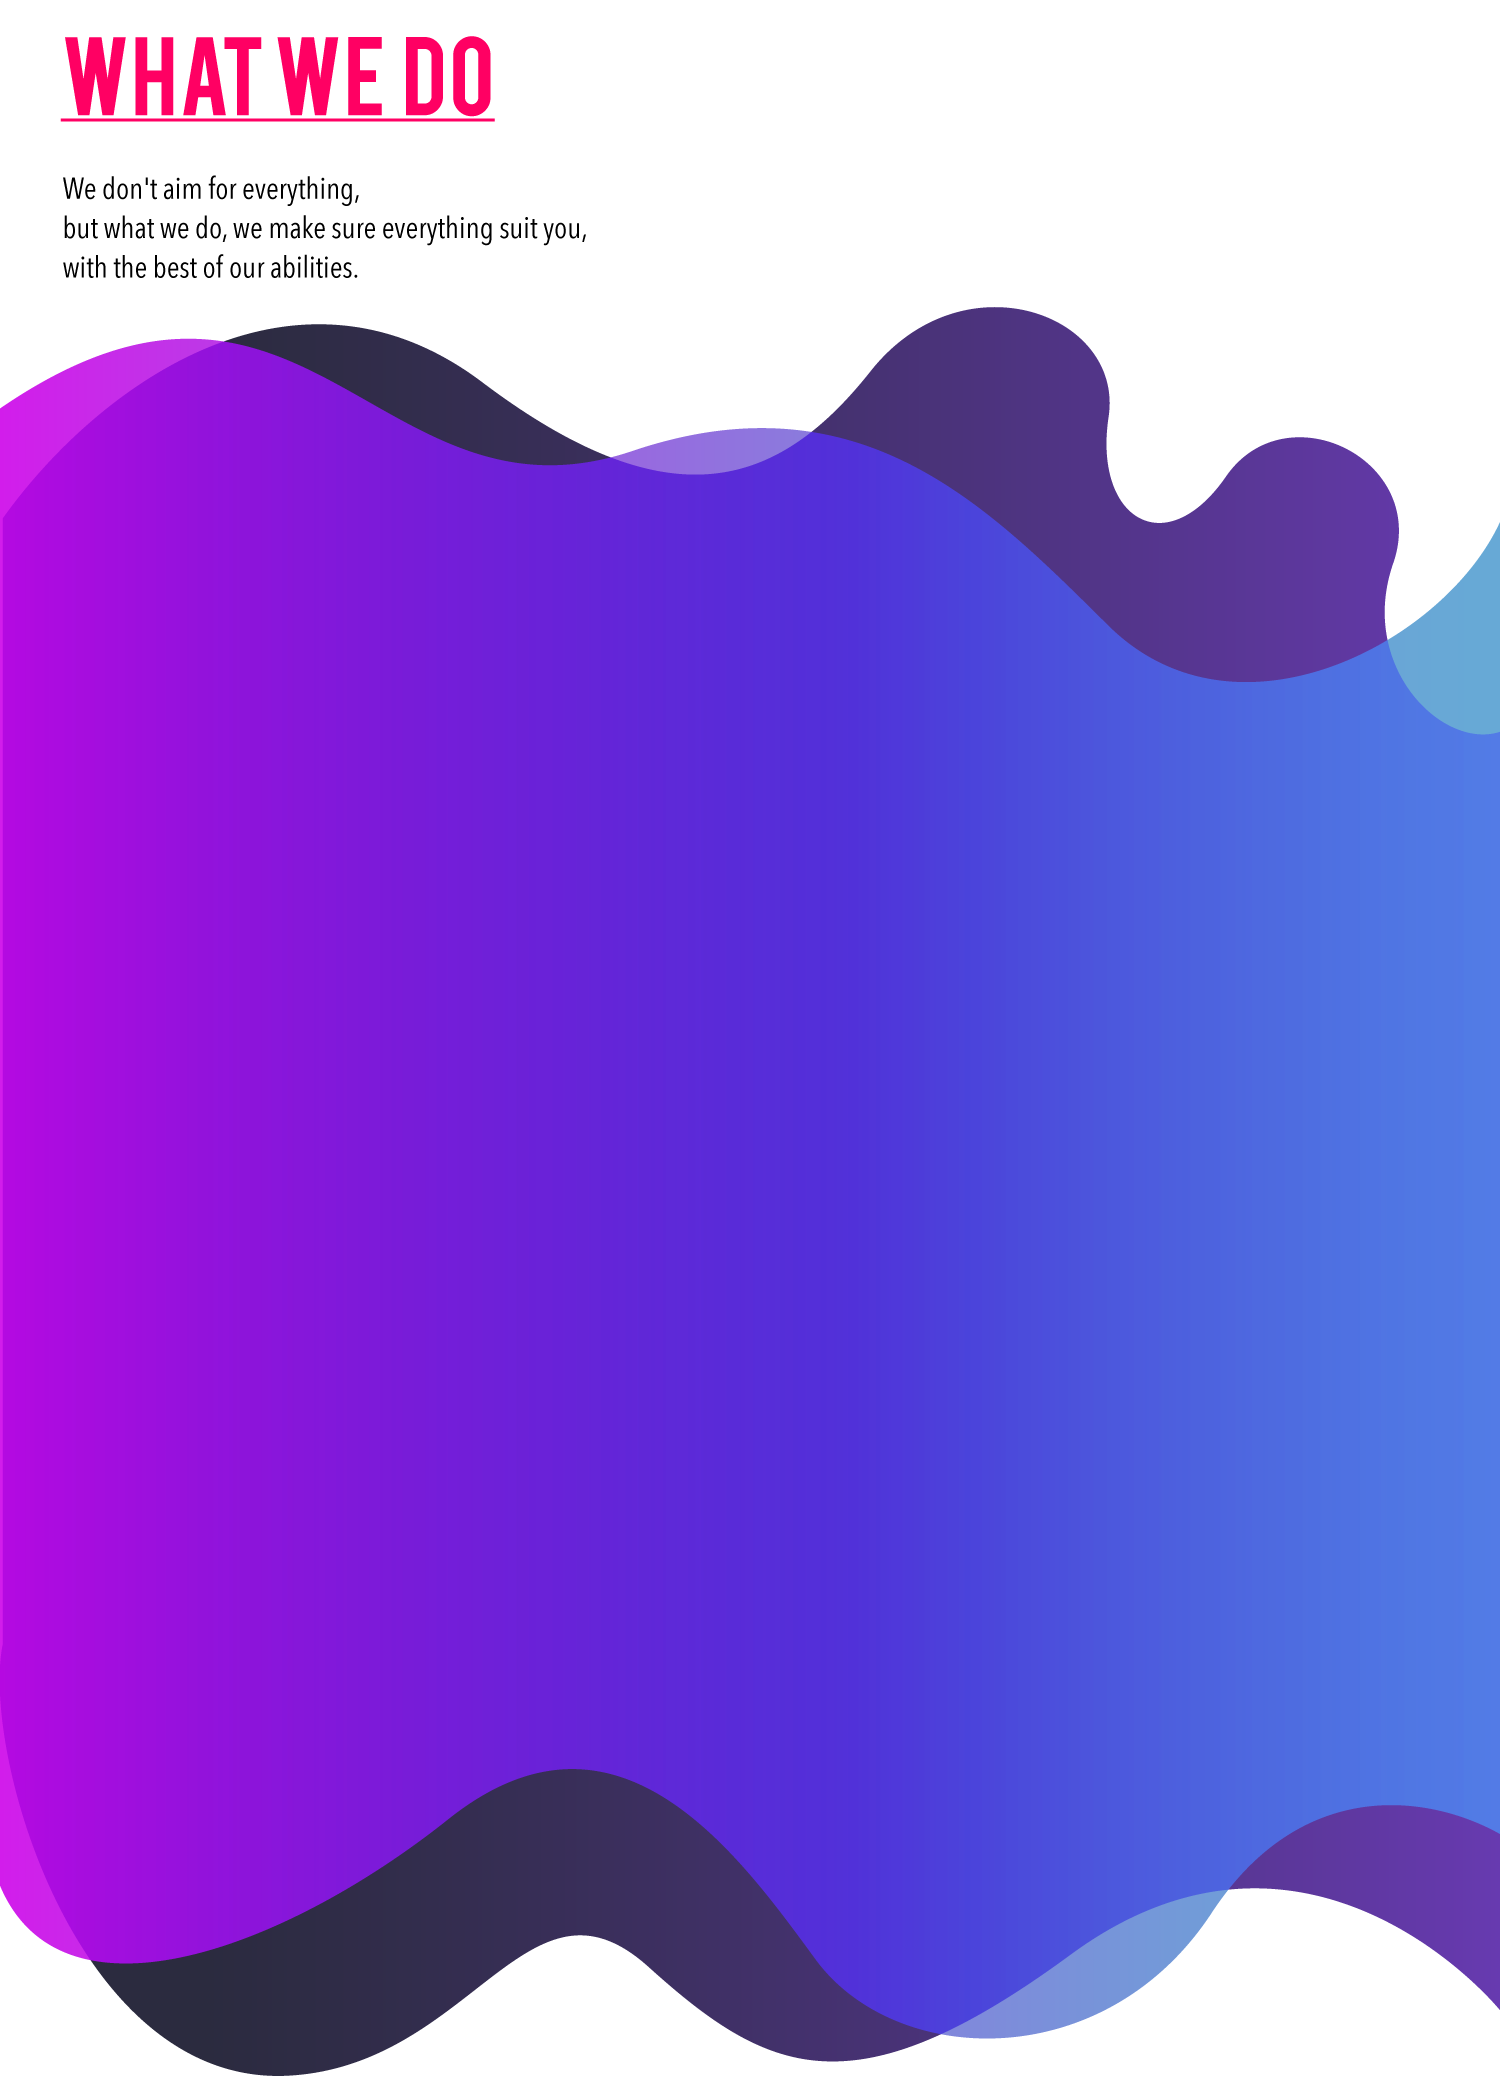
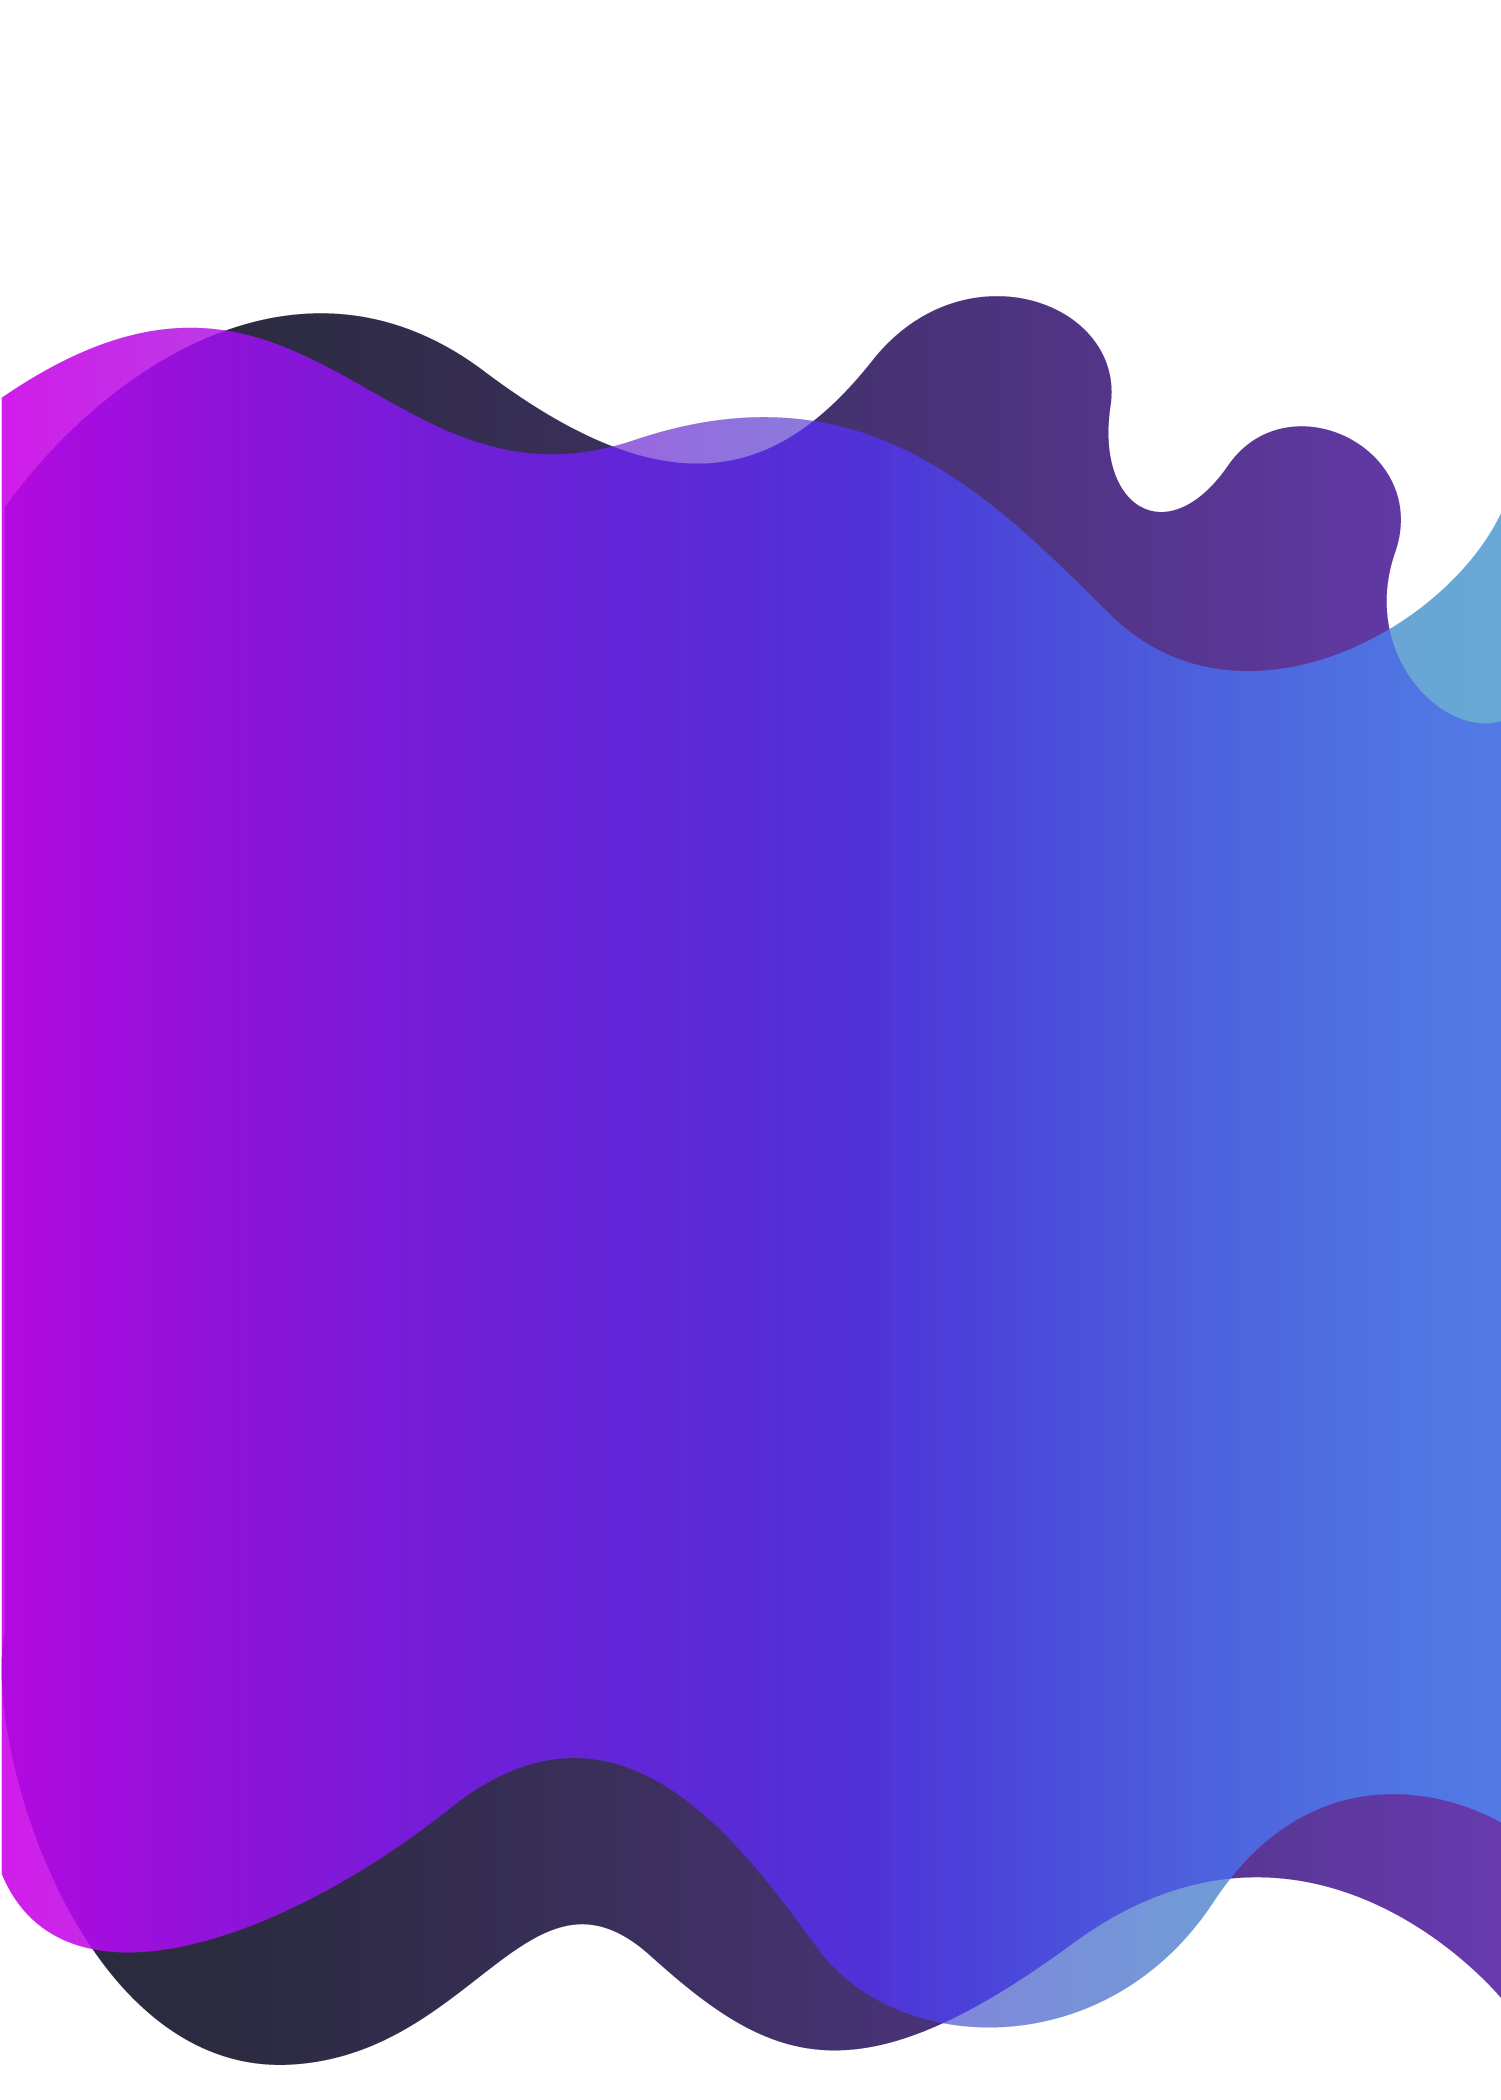
Fix all as text

diff --git a/style.css b/style.css
@@ -172,15 +172,16 @@ select {
     vertical-align: middle;
 }
 
-@font-face{
-        font-family: avenir;
-        src: url(font/avenir_next.ttc); 
+@font-face {
+    font-family: avenir;
+    src: url(font/avenir_next.ttc);
 }
 
 @font-face {
     font-family: bebas;
     src: url(font/bebas.TTF);
 }
+
 /*end of reset styling*/
 /*------------------------------------------------------------------------------------------------*/
 /*------------------------------------------------------------------------------------------------*/
@@ -197,7 +198,7 @@ html {
     padding: 0;
     width: 100vw;
     height: 100vh;
-    background-color: #ff9;
+    background-color: #FFFFFF;
 }
 
 body {
@@ -208,57 +209,59 @@ body {
     font-family: 'Nunito', sans-serif;
 }
 
-.header_text h2{
-font-family: bebas;
-color: #ff0064;
-text-transform: uppercase;
-text-decoration: underline;
-letter-spacing: 2px;
-word-spacing: 10px;
+.header_text h2 {
+    font-family: bebas;
+    color: #ff0064;
+    text-transform: uppercase;
+    text-decoration: underline;
+    letter-spacing: 2px;
+    word-spacing: 10px;
 }
 
-.common_text h1{
-color: #000000;
-text-transform: none;
-font-weight: 1;
+.common_text h1 {
+    color: #000000;
+    text-transform: none;
+    font-weight: 1;
 }
 
-.logo{
+.logo {
     background-size: contain;
     background-repeat: no-repeat;
     background-position: left center;
 }
 
-nav{
+nav {
     position: fixed;
     width: 100vw;
     line-height: 60px;
 }
+
 /* background color shown when scroll */
-nav.background{
-background: rgba(43, 43, 63, .9);
-/* background: #2b2b3F; */
+nav.background {
+    background: rgba(43, 43, 63, .9);
+    /* background: #2b2b3F; */
 }
 
-.section_whoweare{
-    background-image: url(img/header.png); 
-    margin-top: -2px; 
+.section_whoweare {
+    background-image: url(img/header.png);
+    margin-top: -2px;
 }
 
-.section_whyus{
+.section_whyus {
     background-image: url(img/why_us.png);
-    margin-top: -2px; 
+    margin-top: -2px;
 }
 
-.section_projects{
+.section_projects {
     background-image: url(img/Section_whatwedo.png);
-    margin-top: -2px; 
+    margin-top: -2px;
 }
 
-.section_contacts{
-    background-image: url(img/Section_contatus.png);
-    margin-top: -2px; 
+.section_contacts {
+
+    margin-top: -2px;
 }
+
 /*end of mobile*/
 /*------------------------------------------------------------------------------------------------*/
 /*------------------------------------------------------------------------------------------------*/
@@ -266,17 +269,17 @@ background: rgba(43, 43, 63, .9);
 /*code for pc*/
 
 @media only screen and (min-width:864px) {
-    nav{
+    nav {
         position: fixed;
         width: 100vw;
         line-height: 60px;
     }
-    
-    .nav_bar{
-    height: 7vw;
-    display:flex;
-    flex-direction: row;
-    align-items: center;
+
+    .nav_bar {
+        height: 7vw;
+        display: flex;
+        flex-direction: row;
+        align-items: center;
     }
 
     .logo {
@@ -287,16 +290,16 @@ background: rgba(43, 43, 63, .9);
         background-position: bottom left;
     }
 
-    .logo img{
+    .logo img {
         width: auto;
-        height: 100%;;
+        height: 100%;
     }
 
-    .menu{
+    .menu {
         height: 5vw;
     }
 
-    nav ul{
+    nav ul {
         float: right;
         margin: 0;
         padding-right: 6.5vw;
@@ -304,72 +307,88 @@ background: rgba(43, 43, 63, .9);
         height: 100%;
         width: auto;
     }
-    
-    nav ul li{
+
+    nav ul li {
         display: inline-block;
         padding-right: 2.5vw;
-        height: 80%;  
+        height: 80%;
     }
 
-    nav ul li a{
+    nav ul li a {
         color: whitesmoke;
         font-size: 1.5vw;
     }
 
-    .box1_position{
+    .box1_position {
         display: inline-block;
         margin-top: 27vw;
         margin-left: 5vw;
     }
-    
-    .box2_position{
+
+    .box2_position {
         display: inline-block;
         margin-top: 10vw;
         margin-left: 52vw;
     }
 
-    .section_whoweare{
+    .box3_position {
+        display: inline-block;
+        margin-top: 5vw;
+        margin-left: 5vw;
+    }
+
+    .box4_position {
+        display: flex;
+        flex-direction: row;
+        margin-top: 10vw;
+        margin-left: 5vw;
+    }
+
+    .box4_position h1{
+        padding-top: 1vw;
+    }
+    .section_whoweare {
         height: 53.3vw;
-        width:100vw;
+        width: 100vw;
         background-size: cover;
         background-repeat: no-repeat;
         background-position: bottom left;
     }
 
-    .section_whyus{
-        height : 44.33vw;
+    .section_whyus {
+        height: 44.33vw;
         width: 100vw;
         background-size: 100% 100%;
         background-size: cover;
         background-repeat: no-repeat;
         background-position: bottom left;
     }
-           
-    .header_text h2{
+
+    .header_text h2 {
         letter-spacing: 0.07vw;
         word-spacing: 10px;
         font-size: 5.2vw;
         font-weight: 1;
         line-height: 130%;
     }
-        
-    .common_text h1{
+
+    .common_text h1 {
         margin-top: 3%;
         font-size: 1.5vw;
         font-weight: 500;
-        line-height: 120%;
+        line-height: 130%;
     }
 
-    .section_projects{
-        height : 139.44vw;
+    .section_projects {
+        height: 139.44vw;
         width: 100vw;
         background-size: cover;
         background-repeat: no-repeat;
         background-position: bottom left;
     }
-    
-    .section_contacts{
-        height : 31.978vw;
+
+    .section_contacts {
+        height: 31.978vw;
         width: 100vw;
         background-size: cover;
         background-repeat: no-repeat;

diff --git a/index.html b/index.html
@@ -30,59 +30,87 @@
                 </div>
             </div>
         </nav>
-        <section  id = "whoweare">
+        <section id="whoweare">
             <div class="section_whoweare">
                 <div class="box1_position">
                     <div class="header_text">
-                    <h2>let mind flow<br>let's mind blow</h2>
+                        <h2>let mind flow<br>let's mind blow</h2>
                     </div>
                     <div class="common_text">
-                    <h1>For over 10 years in Branding, Creative & Advertising, <br>
-                        we stay BOLD, stay YOUNG, stay CREATIVE,<br> to serve you best.
-                    </h1>
+                        <h1>For over 10 years in Branding, Creative & Advertising,
+                            <br>we stay BOLD, stay YOUNG, stay CREATIVE,
+                            <br> to serve you best.
+                        </h1>
                     </div>
                 </div>
             </div>
             <div class="section_whyus" id="whyus">
                 <div class="box2_position">
                     <div class="header_text">
-                    <h2>why us</h2>
+                        <h2>why us</h2>
                     </div>
                     <div class="common_text">
-                    <h1>Enthusiasm is what keep things going. That’s the <br>reason we’re here. We do what we passion and <br>passion
-                        of what we do. Mind blow idea with one of<br> a kind art direction to help the brand grow and glow.
-                    </h1>
+                        <h1>Enthusiasm is what keep things going. That’s the
+                            <br>reason we’re here. We do what we passion and
+                            <br>passion of what we do. Mind blow idea with one of
+                            <br> a kind art direction to help the brand grow and glow.
+                        </h1>
                     </div>
                 </div>
             </div>
         </section>
-        <section  id="projects">
-            <div class="section_projects"></div>
+        <section id="projects">
+            <div class="section_projects">
+                <div class="box3_position">
+                    <div class="header_text">
+                        <h2>what we do</h2>
+                    </div>
+                    <div class="common_text">
+                        <h1>We dont't aim for everything,
+                            <br>but what we do, we make sure everything suits you,
+                            <br>with the best of our abilities.
+                        </h1>
+                    </div>
+                </div>
+            </div>
         </section>
-        <section  id="contacts">
-            <div class="section_contacts"></div>
-        </section> 
+        <section id="contacts">
+            <div class="section_contacts">
+                <div class="box4_position">
+                    <div class="header_text" style="flex-grow: 1.5">
+                        <h2>say hello
+                            <br>to us
+                        </h2>
+                    </div>
+                    <div class="common_text" style="flex-grow: 8.5">
+                        <h1>Well, we're not hard to find, just a click below:
+                            <br><a href="mailto: seek.aimcreative@gmail.my">seek.aimcreative@gmail.my</a>
+                            <br><a href="https://wa.me/+60125705786">https://wa.me/+60125705786</a>
+                            <br><a href="https://wa.me/+60125099143">https://wa.me/+60125099143</a>
+                        </h1>
+                    </div>
+                </div>
+            </div>
+        </section>
     </div>
     <script type="text/javascript">
-        $(window).on("scroll",function()
-        {
-           if($(window).scrollTop()){
-               $('nav').addClass('background'); 
-           }
-           else{
-                $('nav').removeClass('background'); 
-           }
-        }) 
+        $(window).on("scroll", function () {
+            if ($(window).scrollTop()) {
+                $('nav').addClass('background');
+            } else {
+                $('nav').removeClass('background');
+            }
+        })
     </script>
     <script>
-    var smoothScroll = new scrollToSmooth('a', {
+        var smoothScroll = new scrollToSmooth('a', {
             easing: 'easeInOutBack',
-        duration: 650,
-        durationRelative: true,
-        updateURL: true,
-    })
-    smoothScroll.init();
-</script>
+            duration: 650,
+            durationRelative: true,
+            updateURL: true,
+        })
+        smoothScroll.init();
+    </script>
 </body>
 
 </html>
